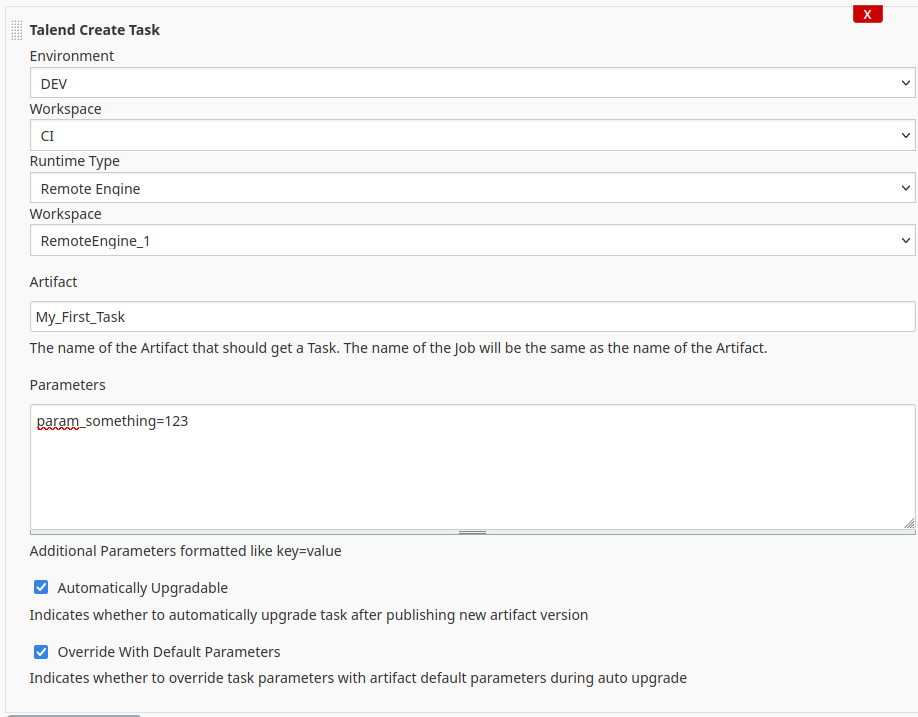
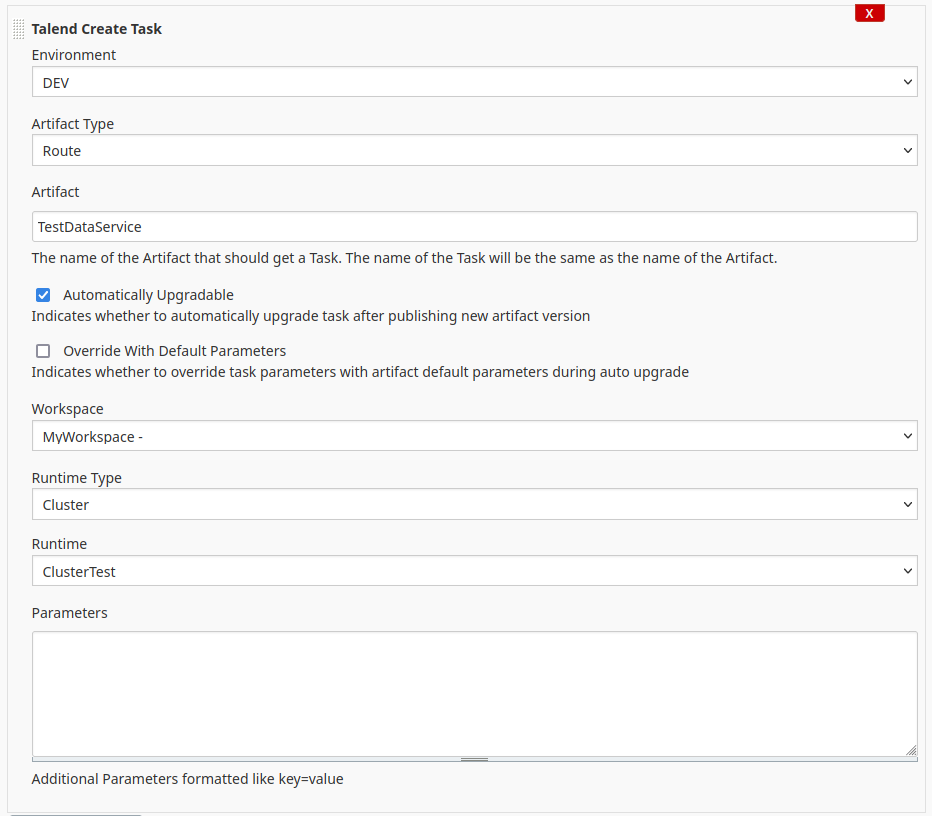
Version 1.5 - With support for Jobs, Routes, DataServices and Pipelines

diff --git a/src/main/webapp/createTask.js b/src/main/webapp/createTask.js
@@ -6,10 +6,18 @@ function changeAutoUpgradable(id, value) {
 	}
 }		
 
-function displayRuntime(id, value) {
-	if (value == "CLOUD" || value == "CLOUD_EXCLUSIVE") {
-		document.getElementById("field-runtime-" + id).style.display = "none"
+function displayParameters(id, value) {
+	if (value == "JOB") {
+		document.getElementById("parameterdiv-" + id).style.display = "block"
 	} else {
-		document.getElementById("field-runtime-" + id).style.display = "block"
+		document.getElementById("parameterdiv-" + id).style.display = "none"
 	}
 }		
+
+function displayRuntime(id, value) {
+    if (value != "CLOUD") {
+        document.getElementById("field-runtime-" + id).style.display = "block"
+    } else {
+        document.getElementById("field-runtime-" + id).style.display = "none"
+    }
+}       

diff --git a/src/main/java/io/jenkins/plugins/talend/CreateTaskBuilder.java b/src/main/java/io/jenkins/plugins/talend/CreateTaskBuilder.java
@@ -57,6 +57,7 @@ public class CreateTaskBuilder extends Builder implements SimpleBuildStep {
 
     private String tEnvironment;
     private String tWorkspace;
+    private String tArtifactType;
     private String tArtifact;
     private String tRuntimeType;
     private String tRuntime;
@@ -86,6 +87,15 @@ public class CreateTaskBuilder extends Builder implements SimpleBuildStep {
     @DataBoundSetter
     public void setWorkspace(String value) {
         this.tWorkspace = value;
+    }
+
+    @DataBoundSetter
+    public void setArtifactType(String value) {
+        this.tArtifactType = value;
+    }
+
+    public String getArtifactType() {
+        return tArtifactType;
     }
 
     public String getArtifact() {
@@ -156,6 +166,7 @@ public class CreateTaskBuilder extends Builder implements SimpleBuildStep {
 		listener.getLogger().println("*** CREATETASK ***");
 		listener.getLogger().println("environment=" + tEnvironment);
 		listener.getLogger().println("workspace=" + tWorkspace);
+		listener.getLogger().println("artifacttype=" + tArtifactType);
 		listener.getLogger().println("artifactname=" + tArtifact);
         String id = "";
 
@@ -185,24 +196,27 @@ public class CreateTaskBuilder extends Builder implements SimpleBuildStep {
         		newTask.setArtifact(artifactMap);
 
         		Map<String, String> AutoUpgradeInfoMap = new HashMap<>();
-        		AutoUpgradeInfoMap.put("autoUpgradable", tAutoUpgradable);
-        		AutoUpgradeInfoMap.put("overrideWithDefaultParameters", tOverrideWithDefaultParameters);
-        		newTask.setAutoUpgradeInfo(AutoUpgradeInfoMap);
+        		if (!tArtifactType.equals("DATA_SERVICE") && !tArtifactType.equals("ROUTE")) {
+        			listener.getLogger().println("Going to set autoUpgradable");
+        			AutoUpgradeInfoMap.put("autoUpgradable", tAutoUpgradable);
+        			AutoUpgradeInfoMap.put("overrideWithDefaultParameters", tOverrideWithDefaultParameters);
+        			newTask.setAutoUpgradeInfo(AutoUpgradeInfoMap);
 
-				String[] values = tParameters.split("\n");
-				Map<String, String> parameters = new HashMap<>();
-				for (int i = 0; i < values.length; i++) {
-					if (!(values[i].indexOf("=") < 0) ) {
-						String key =values[i].split("=")[0].trim();
-						String value =values[i].split("=")[1].trim();
-						if (key.length() > 0 && value.length() > 0) {
-							parameters.put(key, value);
+					String[] values = tParameters.split("\n");
+					Map<String, String> parameters = new HashMap<>();
+					for (int i = 0; i < values.length; i++) {
+						if (!(values[i].indexOf("=") < 0) ) {
+							String key =values[i].split("=")[0].trim();
+							String value =values[i].split("=")[1].trim();
+							if (key.length() > 0 && value.length() > 0) {
+								parameters.put(key, value);
+							}
 						}
 					}
-				}
-				if (parameters.size() > 0) {
-					newTask.setParameters(parameters);
-				}
+					if (parameters.size() > 0) {
+						newTask.setParameters(parameters);
+					}
+        		}
 	            LOGGER.info("Going to create task :" + newTask.toString() );
 
 				Task createdTask = executableTask.create(newTask);
@@ -212,13 +226,11 @@ public class CreateTaskBuilder extends Builder implements SimpleBuildStep {
             	String engineId = "";
             	
 				switch (tRuntimeType) {
-			    case "CLOUD":  			engineId = TalendLookupHelper.getPipelineEngineIdByName(tEnvironment, tRuntime);
+			    case "GEN2":  			engineId = TalendLookupHelper.getPipelineEngineIdByName(tEnvironment, tRuntime);
 			         				break;
 			    case "REMOTE_ENGINE":	engineId = TalendLookupHelper.getRemoteEngineIdByName(tEnvironment, tRuntime);
 			         				break;
 			    case "REMOTE_ENGINE_CLUSTER":	engineId = TalendLookupHelper.getClusterIdByName(tEnvironment, tRuntime);
-									break;
-			    case "CLOUD_EXCLUSIVE":	engineId = "";
 									break;
 			    default: engineId = "";
 			}
@@ -226,21 +238,28 @@ public class CreateTaskBuilder extends Builder implements SimpleBuildStep {
 //            	String engineId = TalendLookupHelper.getRemoteEngineIdByName(tEnvironment, tRuntime);
             	if (!engineId.isEmpty()) {
                 	RunConfig runConfig = new RunConfig();
-                	Trigger trigger = new Trigger();
-                	trigger.setType("MANUAL");
-                	runConfig.setTrigger(trigger);
+            		
                 	Runtime runtime = new Runtime();
                 	runtime.setId(engineId);
                 	runtime.setType(tRuntimeType);
                 	runConfig.setRuntime(runtime);
+            		
+            		if (tRuntimeType.equals("REMOTE_ENGINE") || tRuntimeType.equals("REMOTE_ENGINE_CLUSTER")) {
+                    	Trigger trigger = new Trigger();
+                    	trigger.setType("MANUAL");
+                    	runConfig.setTrigger(trigger);
+            		} 
                 	// This can only be set on Clusters
-//	                	runConfig.setParallelExecutionAllowed("false");
+                	if (tRuntimeType.equals("REMOTE_ENGINE_CLUSTER")) {
+                      runConfig.setParallelExecutionAllowed("false");
+                	}
                     ExecutableRunConfig executableRunConfig = ExecutableRunConfig.instance(credentials, region);
     	            LOGGER.info("Going to add RunConfig :" + executableRunConfig.toString() );
 
                     executableRunConfig.update("task", id, runConfig);
+            	
             	} else {
-                	listener.getLogger().println("No Engine in Workspace available, skipping updating RunConfig");            		
+                	listener.getLogger().println("No Engine in Workspace available, skipping updating RunConfig");
             	}
             	
             	listener.getLogger().println("The TaskID is stored in Environment variable TALEND_NEW_TASK_ID ");
@@ -289,13 +308,44 @@ public class CreateTaskBuilder extends Builder implements SimpleBuildStep {
         	}
         	return model;
 		}
-            	    	
-		public ListBoxModel doFillRuntimeTypeItems(@QueryParameter String environment) {
+
+		public ListBoxModel doFillArtifactTypeItems(@QueryParameter String environment) {
             ListBoxModel model = new ListBoxModel();
-            model.add("Cloud", "CLOUD");
-            model.add("Remote Engine", "REMOTE_ENGINE");
-            model.add("Cluster", "REMOTE_ENGINE_CLUSTER");
-            model.add("Cloud Exclusive","CLOUD_EXCLUSIVE");
+            model.add("Data Service", "DATA_SERVICE");
+            model.add("Job", "JOB");
+            model.add("Pipeline", "PIPELINE");
+            model.add("Route","ROUTE");
+            return model;
+		}
+
+		public ListBoxModel doFillRuntimeTypeItems(@AncestorInPath Item item, @QueryParameter String environment, @QueryParameter String artifactType) {
+            ListBoxModel model = new ListBoxModel();
+            if (item == null) { // no context
+            	return model;
+            }
+            item.checkPermission(Item.CONFIGURE);
+
+        	if (!environment.isEmpty()) {
+				switch (artifactType) {
+				case "DATA_SERVICE":
+		            model.add("Remote Engine", "REMOTE_ENGINE");
+		            model.add("Cluster", "REMOTE_ENGINE_CLUSTER");
+		            break;
+				case "JOB":
+		            model.add("Remote Engine", "REMOTE_ENGINE");
+		            model.add("Cluster", "REMOTE_ENGINE_CLUSTER");
+		            model.add("Cloud","CLOUD");
+		            break;
+				case "PIPELINE":
+		            model.add("Remote Gen2", "GEN2");
+		            break;
+				case "ROUTE":
+		            model.add("Remote Engine", "REMOTE_ENGINE");
+		            model.add("Cluster", "REMOTE_ENGINE_CLUSTER");
+		            break;
+			    default: model.add("Artifact Type Not Implemented", "NOT");
+				}
+        	}
             return model;
 		}
 
@@ -308,13 +358,11 @@ public class CreateTaskBuilder extends Builder implements SimpleBuildStep {
             item.checkPermission(Item.CONFIGURE);
         	if (!environment.isEmpty()) {
 				switch (runtimeType) {
-				    case "CLOUD":  			model = TalendLookupHelper.getPipelineEngineList(environment);
+				    case "GEN2":  			model = TalendLookupHelper.getPipelineEngineList(environment);
 				         				break;
 				    case "REMOTE_ENGINE":	model = TalendLookupHelper.getRemoteEngineList(environment);
 				         				break;
 				    case "REMOTE_ENGINE_CLUSTER":	model = TalendLookupHelper.getClusterList(environment);
-										break;
-				    case "CLOUD_EXCLUSIVE":	model.add("Runtime Type Not Implemented", "NOT");
 										break;
 				    default: model.add("Runtime Type Not Implemented", "NOT");
 				}

diff --git a/src/main/java/io/jenkins/plugins/talend/RunTaskBuilder.java b/src/main/java/io/jenkins/plugins/talend/RunTaskBuilder.java
@@ -25,6 +25,7 @@ import com.talend.tmc.services.TalendCredentials;
 import com.talend.tmc.services.TalendRestException;
 import com.talend.tmc.services.executables.ExecutableTask;
 import com.talend.tmc.services.executions.ExecutionService;
+import com.talend.tmc.services.executions.TaskExecutionService;
 import com.talend.tmc.services.workspaces.WorkspaceService;
 
 import edu.umd.cs.findbugs.annotations.CheckForNull;
@@ -150,9 +151,20 @@ public class RunTaskBuilder extends Builder implements SimpleBuildStep {
 			ExecutionService executionService = ExecutionService.instance(credentials, region);
 			ExecutionResponse executionResponse = executionService.post(executionRequest);
 			listener.getLogger().println("Talend Task Started: " + executionResponse.getExecutionId());
-            while (true) {
-
-                Execution execution = executionService.get(executionResponse.getExecutionId());
+			
+			// Let that sink in
+			Thread.sleep(1000);
+			
+			TaskExecutionService taskExecutionService = TaskExecutionService.instance(credentials, region);
+			Execution[] firstExecutions = taskExecutionService.get(id);
+			String executionId = "";
+			if (firstExecutions.length > 0) {
+				listener.getLogger().println("Initial Status: " + firstExecutions[0].getExecutionStatus());
+				executionId = firstExecutions[0].getExecutionId();
+			}
+			
+            while (true && !executionId.isEmpty()) {
+                Execution execution = executionService.get(executionId);
                 if (execution.getFinishTimestamp() != null) {
                     if (!execution.getExecutionStatus().equals("EXECUTION_SUCCESS")) {
                         throw new IOException("Job Completed in non Successful State :" + execution.toString());

diff --git a/src/main/java/io/jenkins/plugins/talend/TalendLookupHelper.java b/src/main/java/io/jenkins/plugins/talend/TalendLookupHelper.java
@@ -69,7 +69,6 @@ public class TalendLookupHelper {
 		} catch (TalendRestException | IOException ex) {
 			LOGGER.warning(ex.getMessage());
 		}
-
 		return model;
 	}
 	

diff --git a/README.md b/README.md
@@ -25,16 +25,14 @@ broken. This is to keep the UI and the Pipeline versions act the same.
 
 ### Create a Task
 
-Create a Freestyle Job and add the build task "Talend Create Task". You can select the artifact that you want to base your task on 
-by first selecting the Environment, then the Workspace and then the Artifact.
-
+Create a Freestyle Job and add the build task "Talend Create Task". You can create Jobs, Routes, DataServices and Pipeline tasks.
+The Artifact name is a textbox so you can plan creating a task that where the Artifact has not been uploaded yet. (and use jenkins parameters).
 ![Create a New Task Image](docs/images/createtask.png "Create a New Task")
 
 ### Run a Task
 
 Create a Freestyle Job and add the build task "Talend Run Task". You can select the task by first selecting the 
 Environment, then the Workspace and then the Task.
-The Task is a textbox so you can plan running a task that has not been created yet (and use jenkins parameters).
 
 ![Run a Task Image](docs/images/runtask.png "Run a Task")
 
